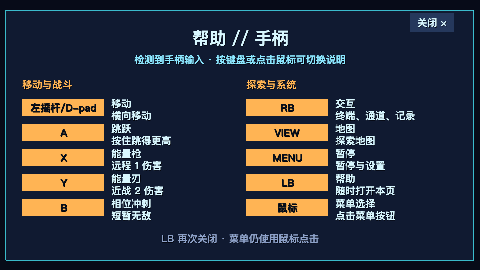
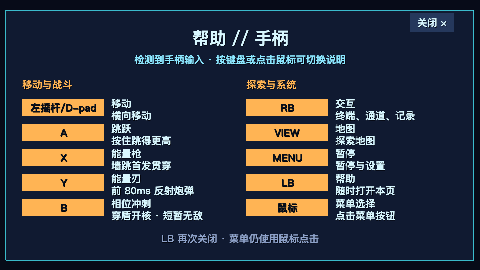
chore(release): prepare v0.2.0

Changed region(s): [[0.2188, 0.6815, 0.4062, 0.8296], [0.2188, 0.5926, 0.375, 0.6519], [0.3438, 0.7704, 0.4375, 0.8296]]

diff --git a/src/game/scenes/TitleScene.ts b/src/game/scenes/TitleScene.ts
@@ -31,7 +31,7 @@ export class TitleScene extends Phaser.Scene {
     this.readResult = this.saveService.read();
 
     this.add.text(240, 38, '星骸回声', titleTextStyle()).setOrigin(0.5);
-    this.add.text(240, 68, 'STAR ECHO // v0.1.0', bodyTextStyle('#8da1c8')).setOrigin(0.5);
+    this.add.text(240, 68, 'STAR ECHO // v0.2.0', bodyTextStyle('#8da1c8')).setOrigin(0.5);
 
     const hasSave = this.readResult.status === 'valid';
     const continueButton = this.createMenuButton(104, '继续任务', hasSave, () =>

diff --git a/docs/RELEASE_CHECKLIST.md b/docs/RELEASE_CHECKLIST.md
@@ -1,4 +1,4 @@
-# `v0.1.0` 发布验收记录
+# `v0.2.0` 发布验收记录
 
 验收日期：2026-07-31（Europe/London）
 
@@ -6,57 +6,61 @@
 
 ## 功能范围
 
-- [x] 17 个房间：坠星前庭 6、生化锻造区 6、零点反应堆 4、Boss 房 1。
-- [x] 3 个存档终端、2 个隐藏生命升级、3 个环境叙事终端。
-- [x] 相位冲刺、磁附跃迁、能力门、中央井捷径和完整回环路线。
-- [x] 四类普通敌人；守核者 Λ 为 30 生命、两阶段、三种明确预警招式。
-- [x] 标题、继续/新游戏、HUD、地图、暂停、设置、控制说明、结局统计和通关后探索。
-- [x] 版本化存档、安全损坏回退、存储拒绝降级和设置独立持久化。
-- [x] 键盘、手柄热插拔、失焦暂停/清输入、全屏与程序化 Web Audio 降级。
+- [x] 保留 17 房间完整能力路线、30 生命 Boss、结局及通关后探索。
+- [x] `star-echo.save.v1` 结构未变，`v0.1.0` 存档继续兼容。
+- [x] 三个指定爬行体使用带盾变体，支持冲刺越心开核、核心侧判定、1.8 秒暴露与 350ms 预警。
+- [x] 能量刃在 105ms 判定的前 80ms 反射炮台弹和 Boss 扇形弹。
+- [x] 实际墙跳武装首发贯穿弹；落地、死亡、换房和战斗重置均会清除。
+- [x] 命中停顿、硬直、击退、局部火花与五项专用程序化音效完整接入辅助设置。
+- [x] 九步新手训练、三处会话内提示及键鼠/手柄自适应 Help 页使用正式战斗判定。
 
 ## 自动验证
 
 - [x] `pnpm install --frozen-lockfile`。
-- [x] `pnpm check`：格式、lint、类型检查、13 个 Vitest 文件 / 29 个测试、生产构建和加载预算。
-- [x] `pnpm assets:validate`：12 个运行时图像、瓦片接缝、图集尺寸与总量检查。
-- [x] `pnpm test:e2e`：Chromium、Firefox、WebKit 各 3 条，共 9 条浏览器旅程。
-- [x] 完整路线覆盖：新游戏 → 两项能力 → Boss → 结局 → 继续探索。
-- [x] 存档恢复、损坏存档替换、地图、暂停、设置和控制菜单覆盖。
-- [x] 菜单帧同步在 Chromium 4 并发下连续重复 10 次通过。
-- [x] 生产构建扫描确认不存在 `__STAR_ECHO_TEST__`。
+- [x] `pnpm check`：格式、lint、类型检查、23 个 Vitest 文件 / 59 个测试、生产构建和加载预算。
+- [x] `pnpm assets:validate`：运行时图像、瓦片接缝、图集尺寸与 20MB 总量检查。
+- [x] `pnpm test:e2e`：Chromium、Firefox、WebKit 共 30 项旅程。
+- [x] 12 项融合战斗旅程使用真实输入覆盖盾兵、炮台/Boss 反射、双目标贯穿及生命周期清理。
+- [x] 世界验证确认仅三个指定盾兵，17 房间能力图及旧存档路线仍完整可达。
+- [x] 生产构建扫描确认不存在 `__STAR_ECHO_TEST__` 或受控战斗场景接口。
 
-## 性能与资源
+## 性能与视觉
 
-- [x] 运行时图像资源 0.15MB / 20MB。
-- [x] 生产首屏 1.25MB / 8MB。
-- [x] 标题仅预载标题图、主角图集和基础 UI；三个区域按进入顺序懒加载。
-- [x] 玩家、敌人和 Boss 投射物使用对象池；房间切换释放临时对象。
-- [x] HUD 文本只在值改变时重绘。
-- [x] Chromium 960×540 活跃游玩 120 帧采样为 60.03 FPS。
+- [x] 运行时图像资源 0.15MB / 20MB，生产首屏 1.29MB / 8MB。
+- [x] 480×270 检查标题、九步训练、键鼠/手柄 Help、盾牌朝向、核心闪烁、反射弹及贯穿状态，无裁切或文字混淆。
+- [x] 960×540 检查三个区域、Boss、战斗特效和结局；像素对齐及最近邻缩放保持正确。
+- [x] 暂停、死亡、换房和场景关闭恢复物理倍率并清理投射物、硬直与贯穿武装。
 
-## 视觉基线
+| 960×540 核心暴露                       | 960×540 短窗反射                   | 960×540 贯穿武装                          |
+| -------------------------------------- | ---------------------------------- | ----------------------------------------- |
+| ![核心暴露](qa/combat-shield-open.png) | ![短窗反射](qa/combat-reflect.png) | ![贯穿武装](qa/combat-piercing-armed.png) |
 
-以下截图由 Chromium 在 960×540 测试构建中生成，并逐张检查了缺图、裁切、前后景对比、HUD、区域调色、Boss 轮廓与结局排版：
+| 480×270 核心暴露                                | 480×270 短窗反射                            | 480×270 贯穿武装                                   |
+| ----------------------------------------------- | ------------------------------------------- | -------------------------------------------------- |
+| ![低分辨率核心暴露](qa/low-res-shield-open.png) | ![低分辨率短窗反射](qa/low-res-reflect.png) | ![低分辨率贯穿武装](qa/low-res-piercing-armed.png) |
 
-| 标题                      | 坠星前庭                      |
-| ------------------------- | ----------------------------- |
-| ![标题画面](qa/title.png) | ![坠星前庭](qa/vestibule.png) |
+应用内浏览器的本地页连接按规定尝试，但本机管理策略拒绝访问 `127.0.0.1`；未绕过该策略。视觉和交互复核由仓库固定的 Playwright Chromium 测试构建完成，控制台无错误。该限制属于验收宿主，不是游戏运行时错误。
 
-| 生化锻造区                     | 零点反应堆                    |
-| ------------------------------ | ----------------------------- |
-| ![生化锻造区](qa/bioforge.png) | ![零点反应堆](qa/reactor.png) |
+## 原子提交
 
-| 守核者 Λ             | 结局                   |
-| -------------------- | ---------------------- |
-| ![Boss](qa/boss.png) | ![结局](qa/ending.png) |
+`v0.2.0` 使用 11 个按主题划分、各自可构建的提交，不 squash：
 
-Codex 应用内浏览器的本地页连接按规定尝试两次，但本机管理策略无法验证并拒绝访问 `127.0.0.1`；未绕过该安全策略。相同测试构建随后通过项目固定的 Playwright Chromium 会话完成截图、交互和控制台错误验收。这是验收宿主的环境限制，不是游戏运行时错误。
+1. `refactor(combat): type projectile ownership and hit metadata`
+2. `feat(combat): add hit stop knockback and impact feedback`
+3. `feat(enemies): add shield crawler counterplay`
+4. `feat(combat): reflect hostile projectiles with the energy blade`
+5. `feat(ability): add piercing shots after wall jumps`
+6. `feat(tutorial): teach combat fusion mechanics`
+7. `feat(world): place shield encounters and contextual hints`
+8. `feat(ui): document advanced combat techniques`
+9. `test: cover shield reflection and piercing journeys`
+10. `docs: document v0.2 combat rules and playtest results`
+11. `chore(release): prepare v0.2.0`
 
-## 发布操作
+## 仓库外发布操作
 
-- [x] 28 个计划主题均保持为可构建的独立提交，不 squash。
-- [x] 高分辨率源图由 Git LFS 跟踪，运行时不引用源图目录。
-- [ ] 推送前执行 `git fetch origin` 并确认 `origin/main` 没有非快进新历史。
-- [ ] 推送 `main` 和 `v0.1.0` 标签后确认 GitHub Actions 绿色。
+- [ ] 本提交完成后执行 `git fetch origin`，确认 `origin/main` 没有非快进新历史。
+- [ ] 推送 `main`，等待 GitHub Actions 的 `check` 与 `browser` 均成功。
+- [ ] 在绿色提交上创建并推送注释标签 `v0.2.0`，不 force-push。
 
-最后两项属于仓库外部发布操作；完成状态以 Git 远端和 GitHub Actions 为准。
+以上三项必须发生在本发布提交之后，因此以远端 Git 历史、Actions 记录和标签对象为最终状态来源。`v0.1.0` 的原始验收快照保存在 [`releases/v0.1.0.md`](releases/v0.1.0.md)。

diff --git a/README.md b/README.md
@@ -1,6 +1,6 @@
 # 星骸回声
 
-《星骸回声》（Star Echo）是一款原创单人科幻银河城游戏。你将扮演回收员伊娅，在 17 个相互回环的房间中找回“相位冲刺”和“磁附跃迁”，抵达零点核心并关闭守核者 Λ。`v0.1.0` 是一段可完整通关、约 15–25 分钟的桌面浏览器垂直切片。
+《星骸回声》（Star Echo）是一款原创单人科幻银河城游戏。你将扮演回收员伊娅，在 17 个相互回环的房间中找回“相位冲刺”和“磁附跃迁”，抵达零点核心并关闭守核者 Λ。`v0.2.0` 是一段可完整通关、约 15–25 分钟的桌面浏览器垂直切片，并加入冲刺穿盾、短窗反射和墙跳贯穿三项战斗融合机制。
 
 ![《星骸回声》标题画面](docs/qa/title.png)
 
@@ -118,20 +118,28 @@ pnpm preview
 
 死亡会回到最近同步过的终端并恢复生命；能力、永久拾取和探索记录不会丢失。击败 Boss 后可从结局页继续自由探索。
 
+## v0.2 战斗融合
+
+- **冲刺穿盾**：相位冲刺越过带盾爬行体中心，可在抵达侧暴露核心 1.8 秒；必须从核心侧攻击。
+- **短窗反射**：能量刃挥砍的前 80ms 可反射炮台弹和守核者扇形弹，反射弹造成 2 点伤害。
+- **墙跳贯穿**：成功墙跳会武装一次贯穿射击，可连续命中多个普通敌人；落地、死亡或换房会清除。
+
+标题页“新手训练”以九步正式判定教学覆盖基础移动、双武器和三项融合技巧；游玩中可随时按 `H` 或手柄 `LB` 打开自适应 Help 页复习。
+
 ## 控制
 
-| 动作     | 键盘               | 手柄           |
-| -------- | ------------------ | -------------- |
-| 移动     | `A` / `D` 或方向键 | 左摇杆 / D-pad |
-| 跳跃     | `Space`            | A              |
-| 能量枪   | `J`                | X              |
-| 能量刃   | `K`                | Y              |
-| 相位冲刺 | `Shift`            | B              |
-| 交互     | `E`                | RB             |
-| 地图     | `Tab`              | View           |
-| 暂停     | `Esc`              | Menu           |
-| 帮助     | `H`                | LB             |
-| 全屏     | `F`                | —              |
+| 动作     | 键盘               | 手柄           | 说明           |
+| -------- | ------------------ | -------------- | -------------- |
+| 移动     | `A` / `D` 或方向键 | 左摇杆 / D-pad | 地面与空中移动 |
+| 跳跃     | `Space`            | A              | 可变高度跳跃   |
+| 能量枪   | `J`                | X              | 墙跳首发贯穿   |
+| 能量刃   | `K`                | Y              | 前 80ms 反射   |
+| 相位冲刺 | `Shift`            | B              | 穿盾开核       |
+| 交互     | `E`                | RB             | 终端与通道     |
+| 地图     | `Tab`              | View           | 探索地图       |
+| 暂停     | `Esc`              | Menu           | 暂停与设置     |
+| 帮助     | `H`                | LB             | 自适应控制说明 |
+| 全屏     | `F`                | —              | 切换浏览器全屏 |
 
 鼠标只用于菜单。帮助页会根据最近一次实际输入自动显示键鼠版或手柄版。完整手感与辅助选项见
 [控制说明](docs/CONTROLS.md)。
@@ -165,7 +173,7 @@ pnpm test:e2e           # Chromium / Firefox / WebKit
 pnpm check              # 除浏览器旅程外的统一质量门
 ```
 
-生产构建完全移除 `window.__STAR_ECHO_TEST__`。测试模式才加载受控旅程桥，用于验证完整能力路线、损坏存档、Boss、结局和通关后探索。
+生产构建完全移除 `window.__STAR_ECHO_TEST__`。测试模式才加载受控旅程桥，用于验证完整能力路线、融合战斗、损坏存档、Boss、结局和通关后探索。
 
 核心目录：
 

diff --git a/docs/releases/v0.1.0.md b/docs/releases/v0.1.0.md
@@ -1,0 +1,62 @@
+# `v0.1.0` 发布验收记录
+
+验收日期：2026-07-31（Europe/London）
+
+基线环境：macOS、Node.js 24.14.0、pnpm 11.9.0
+
+## 功能范围
+
+- [x] 17 个房间：坠星前庭 6、生化锻造区 6、零点反应堆 4、Boss 房 1。
+- [x] 3 个存档终端、2 个隐藏生命升级、3 个环境叙事终端。
+- [x] 相位冲刺、磁附跃迁、能力门、中央井捷径和完整回环路线。
+- [x] 四类普通敌人；守核者 Λ 为 30 生命、两阶段、三种明确预警招式。
+- [x] 标题、继续/新游戏、HUD、地图、暂停、设置、控制说明、结局统计和通关后探索。
+- [x] 版本化存档、安全损坏回退、存储拒绝降级和设置独立持久化。
+- [x] 键盘、手柄热插拔、失焦暂停/清输入、全屏与程序化 Web Audio 降级。
+
+## 自动验证
+
+- [x] `pnpm install --frozen-lockfile`。
+- [x] `pnpm check`：格式、lint、类型检查、13 个 Vitest 文件 / 29 个测试、生产构建和加载预算。
+- [x] `pnpm assets:validate`：12 个运行时图像、瓦片接缝、图集尺寸与总量检查。
+- [x] `pnpm test:e2e`：Chromium、Firefox、WebKit 各 3 条，共 9 条浏览器旅程。
+- [x] 完整路线覆盖：新游戏 → 两项能力 → Boss → 结局 → 继续探索。
+- [x] 存档恢复、损坏存档替换、地图、暂停、设置和控制菜单覆盖。
+- [x] 菜单帧同步在 Chromium 4 并发下连续重复 10 次通过。
+- [x] 生产构建扫描确认不存在 `__STAR_ECHO_TEST__`。
+
+## 性能与资源
+
+- [x] 运行时图像资源 0.15MB / 20MB。
+- [x] 生产首屏 1.25MB / 8MB。
+- [x] 标题仅预载标题图、主角图集和基础 UI；三个区域按进入顺序懒加载。
+- [x] 玩家、敌人和 Boss 投射物使用对象池；房间切换释放临时对象。
+- [x] HUD 文本只在值改变时重绘。
+- [x] Chromium 960×540 活跃游玩 120 帧采样为 60.03 FPS。
+
+## 视觉基线
+
+以下截图由 Chromium 在 960×540 测试构建中生成，并逐张检查了缺图、裁切、前后景对比、HUD、区域调色、Boss 轮廓与结局排版：
+
+| 标题                              | 坠星前庭                         |
+| --------------------------------- | -------------------------------- |
+| ![标题画面](../qa/v0.1-title.png) | ![坠星前庭](../qa/vestibule.png) |
+
+| 生化锻造区                        | 零点反应堆                       |
+| --------------------------------- | -------------------------------- |
+| ![生化锻造区](../qa/bioforge.png) | ![零点反应堆](../qa/reactor.png) |
+
+| 守核者 Λ                | 结局                      |
+| ----------------------- | ------------------------- |
+| ![Boss](../qa/boss.png) | ![结局](../qa/ending.png) |
+
+Codex 应用内浏览器的本地页连接按规定尝试两次，但本机管理策略无法验证并拒绝访问 `127.0.0.1`；未绕过该安全策略。相同测试构建随后通过项目固定的 Playwright Chromium 会话完成截图、交互和控制台错误验收。这是验收宿主的环境限制，不是游戏运行时错误。
+
+## 发布操作
+
+- [x] 28 个计划主题均保持为可构建的独立提交，不 squash。
+- [x] 高分辨率源图由 Git LFS 跟踪，运行时不引用源图目录。
+- [ ] 推送前执行 `git fetch origin` 并确认 `origin/main` 没有非快进新历史。
+- [ ] 推送 `main` 和 `v0.1.0` 标签后确认 GitHub Actions 绿色。
+
+最后两项属于仓库外部发布操作；完成状态以 Git 远端和 GitHub Actions 为准。

diff --git a/docs/qa/README.md b/docs/qa/README.md
@@ -9,7 +9,14 @@
 - `low-res-title.png`：标题页与四个主菜单入口；
 - `low-res-tutorial.png`：训练关卡的目标、按键提示与效果说明；
 - `low-res-help-keyboard.png`：键盘/鼠标帮助页；
-- `low-res-help-gamepad.png`：手柄帮助页。
+- `low-res-help-gamepad.png`：手柄帮助页；
+- `low-res-shield-open.png`：冲刺结束后，盾兵核心和玩家位于正确相对侧；
+- `low-res-reflect.png`：挥砍弧、反射弹和局部火花；
+- `low-res-piercing-armed.png`：琥珀武装轮廓及同一直线上的两个正式目标。
+
+`combat-shield-open.png`、`combat-reflect.png` 和 `combat-piercing-armed.png` 保存相同三种
+状态的 960×540 基线。`title.png` 是当前版本标题，`v0.1-title.png` 保留上一个标签的标题
+快照，避免历史验收记录随新版截图漂移。
 
 自动旅程还会在 Chromium、Firefox 和 WebKit 的 `480×270` 视口验证画布尺寸、训练入口、
 帮助页开关及最近输入设备切换。截图如因有意 UI 调整而更新，应再次以 100% 缩放逐张检查，

diff --git a/docs/CREDITS.md b/docs/CREDITS.md
@@ -24,4 +24,4 @@
 - Sharp：确定性图像处理与资源验证。
 - OpenAI Codex：实现、测试、文档、资源管线和仓库整理的 AI 辅助。
 
-各依赖保留其各自许可证。本项目自身在 `v0.1.0` 暂未附加开源许可证。
+各依赖保留其各自许可证。本项目自身在 `v0.2.0` 暂未附加开源许可证。
